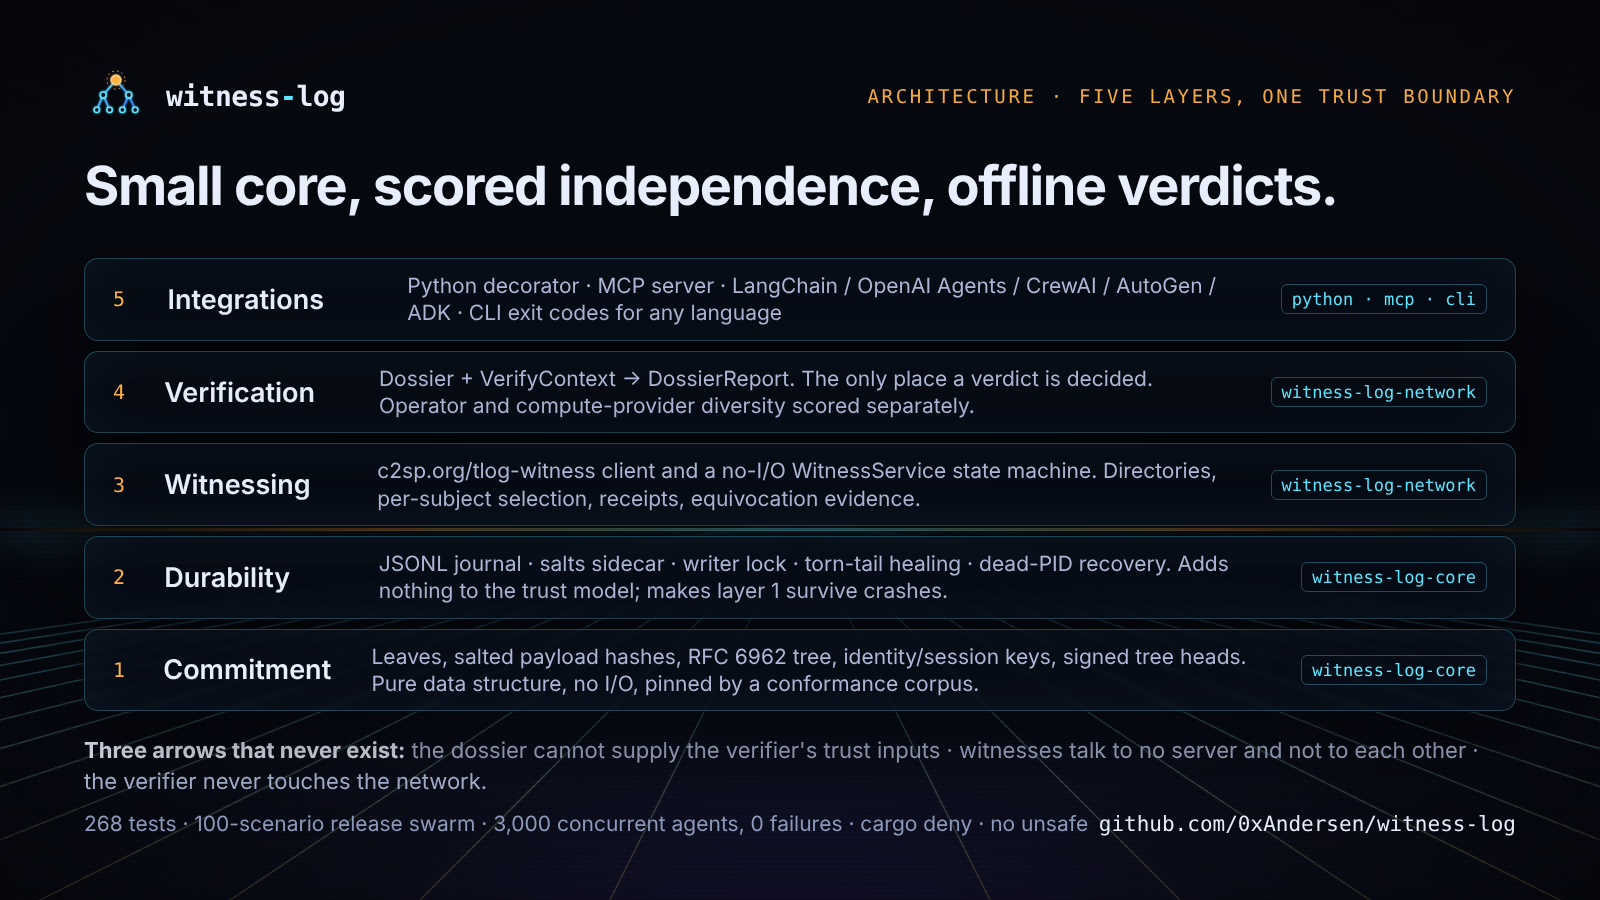
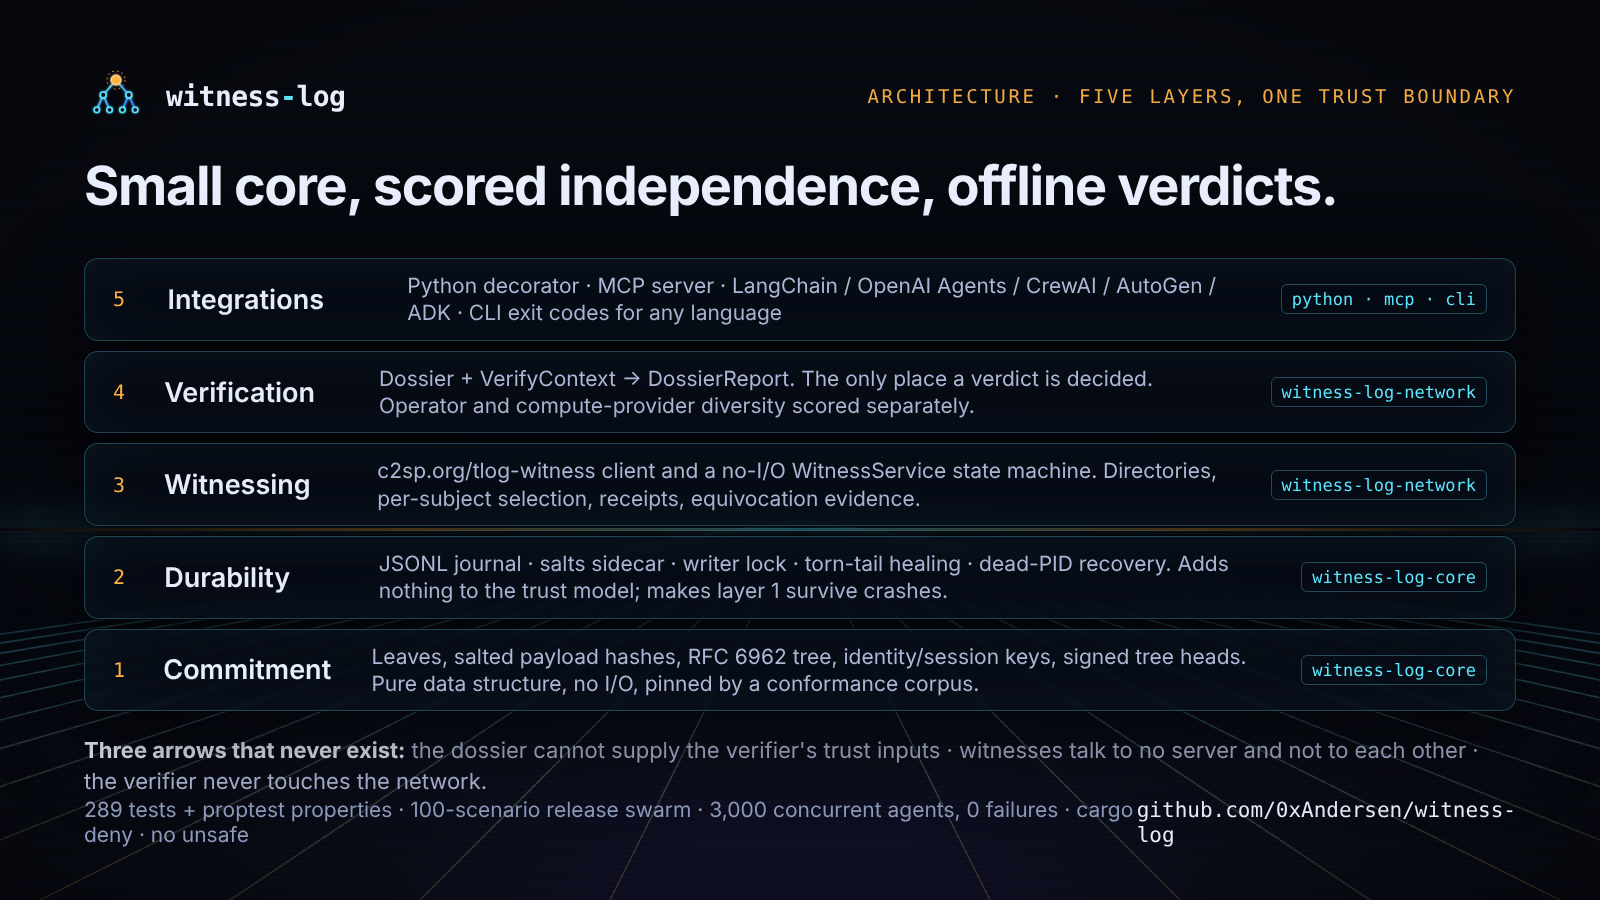
0.3.6: changelog, version bump, ARM notes, re-rendered graphics (Apache chip, current figures), demo resolves relative binary path

Changed region(s): [[0.0312, 0.8711, 0.9375, 0.9333]]

diff --git a/examples/rewrite-attack/run.py b/examples/rewrite-attack/run.py
@@ -38,6 +38,8 @@ except ImportError:  # pragma: no cover
     sys.exit("this demo needs the Python package: pip install witness-log")
 
 CLI = os.environ.get("WITNESS_LOG_BIN") or shutil.which("witness-log")
+if CLI and os.sep in CLI:
+    CLI = os.path.abspath(CLI)  # the demo runs commands from a temp dir
 if not CLI:
     sys.exit("this demo needs the CLI on PATH: cargo install witness-log-cli (or set WITNESS_LOG_BIN)")
 

diff --git a/crates/witness-log-python/python/witness_log/__init__.py b/crates/witness-log-python/python/witness_log/__init__.py
@@ -58,7 +58,7 @@ __all__ = [
     "submit_round",
 ]
 
-__version__ = "0.3.5"
+__version__ = "0.3.6"
 
 from .witnessing import Witnesser, WitnessStatus, submit_round  # noqa: E402
 

diff --git a/CHANGELOG.md b/CHANGELOG.md
@@ -1,6 +1,6 @@
 # Changelog
 
-## Unreleased
+## 0.3.6 — 2026-10-12
 
 Driven by a fresh-eyes evaluation of the published 0.3.5 packages
 (integrator, adversary and hostile-input personas working only from the
@@ -55,6 +55,52 @@ fails on 0.3.5. No wire-format or verdict change.
   list form `verify_dossier_json` accepts.
 - `conform` only worked from a checkout's root: `--reference <corpus>`.
 - `from witness_log import *` exported `open`, shadowing the builtin.
+
+### Fixed (routed from the operator-kit and launch-content work)
+
+- **A witness in a container never restarted after `docker kill`.** Its
+  lock file named pid 1, the restarted witness was pid 1 again, the
+  liveness check saw itself and refused forever. A lock naming the
+  process's own pid is now treated as stale (it cannot be held by a live
+  witness: this process has not taken it yet).
+- **`diff` hedged on a whole-history rewrite.** Two dossiers under one
+  identity diverging at leaf 0 printed "usually means these are two
+  SEPARATE logs" and never "EQUIVOCATION DETECTED". Under the canonical
+  origin the key names the log, so it is equivocation (witnesses refuse
+  it the same way); the output now says so and names the same-seed case.
+- `bind` printed authorization kinds in Rust Debug form (`Some(GrantedByMe)`);
+  it now prints `granted_by_me` etc.
+- **No Linux ARM binary was released**, so the Oracle Always Free path
+  (Ampere A1) had nothing to download. `aarch64-unknown-linux-gnu` is now
+  built, and Linux binaries are built on Ubuntu 22.04 for older glibc.
+- `registry/validate.py` rejects loopback URLs (`witness init` without
+  `--url` writes `http://127.0.0.1:7380`).
+- SPEC §0 said every leaf is signed by a session key; leaves are not
+  individually signed. SPEC §1 claimed a wire-compatibility aim with the
+  agent-record draft and an IETF working group's conclusion; both are
+  corrected.
+
+### Operators
+
+- Public witness status page, every 10 minutes, on the `status` branch
+  (`STATUS.md`, `status.json`); empty registry rendered honestly.
+- `ghcr.io/0xandersen/witness-log` multi-arch image that initialises
+  itself from `WITNESS_ORG` on first start (docker one-liner).
+- cloud-init survives offline steps (IP fallback, Caddy optional, ARM
+  compile fallback); a QEMU end-to-end workflow (manual).
+- Operator onboarding page with current, cited hosting facts; a Founding
+  operators list in GOVERNANCE.md; `witnessed-report` workflow that writes
+  the first independent-WITNESSED report only when two outside
+  organisations are registered and up.
+
+### Launch material
+
+- `examples/rewrite-attack/run.py`: the same-key history rewrite refused
+  by two witnesses with 422, evidence verified, `diff` flagging
+  equivocation, in under a second on localhost.
+- Per-project comparison pages (Tessera, Microsoft AGT, Signet, immudb,
+  Agent Receipts, SCITT) from primary sources; SCITT RFC 9943 mapping with
+  the agent-record divergence list; a runnable AP2 mandates tutorial.
 
 ### Added
 

diff --git a/deploy/witness/AGENT_OPERATOR.md b/deploy/witness/AGENT_OPERATOR.md
@@ -26,10 +26,10 @@ answers `ok`. Then register it from the repo: Actions → *register-witness*
 opens the PR in step 6 instead). Manual steps follow for anyone who wants
 to see what it does.
 
-If the release has no Linux binary for the CPU (v0.3.5 ships
-`x86_64-unknown-linux-gnu` only; Oracle's Always Free Ampere VMs are
-`aarch64`), the script compiles the same version from crates.io instead,
-which takes several minutes on first boot. The Docker image
+Releases from v0.3.6 ship Linux binaries for x86_64 and aarch64 (Oracle's
+Always Free Ampere VMs, Graviton, a 64-bit Pi). If a release ever lacks
+one for the CPU, the script compiles the same version from crates.io
+instead, which takes several minutes on first boot. The Docker image
 (`OPERATORS.md`, "Docker") covers arm64 without compiling.
 
 ## 0. Where to run it (free, always-on)
@@ -41,7 +41,7 @@ forgets what it cosigned will contradict itself. Known-good free options:
 
 | provider | tier | notes |
 |---|---|---|
-| Oracle Cloud | Always Free: 2 AMD micro VMs, or Ampere A1 up to 2 OCPUs / 12 GB; 200 GB block storage | the best free always-on choice; idle Always Free VMs may be reclaimed, so snapshot the state volume; ARM: `cargo install` or the Docker image (no aarch64 Linux binary in v0.3.5) |
+| Oracle Cloud | Always Free: 2 AMD micro VMs, or Ampere A1 up to 2 OCPUs / 12 GB; 200 GB block storage | the best free always-on choice; idle Always Free VMs may be reclaimed, so snapshot the state volume |
 | Google Cloud | e2-micro, 1 per account, always free (US regions) | 30 GB disk persists |
 | AWS | new accounts: credits on a Free plan that ends after 6 months | temporary; set a reminder |
 | your own hardware | a Raspberry Pi, a NAS, a desk machine | needs a port forward or a tunnel (Cloudflare Tunnel is free) |
@@ -54,9 +54,8 @@ jobs), serverless/edge functions (no durable fsync before reply).
 
 ```sh
 # pick the asset for your CPU from https://github.com/0xAndersen/witness-log/releases/latest
-# (no aarch64 Linux asset in v0.3.5: on ARM use `cargo install` below or the Docker image)
 ARCH=$(uname -m)            # x86_64 or aarch64
-VER=v0.3.5
+VER=v0.3.6
 curl -fsSLO https://github.com/0xAndersen/witness-log/releases/download/$VER/witness-log-$VER-$ARCH-unknown-linux-gnu.tar.gz
 curl -fsSLO https://github.com/0xAndersen/witness-log/releases/download/$VER/SHA256SUMS
 sha256sum --ignore-missing -c SHA256SUMS

diff --git a/RELEASING.md b/RELEASING.md
@@ -27,7 +27,7 @@ on the exact commit being released.
    cargo-deny).
 3. Publish the crates **in dependency order**, waiting for each to appear
    on crates.io before the next (each depends on the previous one):
-   Preferred: Actions → *publish-crates* → Run workflow → tag `v0.3.5`.
+   Preferred: Actions → *publish-crates* → Run workflow → tag `v0.3.6`.
    The token lives in the `crates-io` environment as
    `CARGO_REGISTRY_TOKEN`; the job publishes core → network → cli in
    order, skips versions already on crates.io, and verifies with
@@ -38,14 +38,14 @@ on the exact commit being released.
    cargo publish -p witness-log-cli
    ```
 4. Release. Either push a tag, or run the `release` workflow manually
-   (Actions → release → Run workflow → tag `v0.3.5`); the workflow then
+   (Actions → release → Run workflow → tag `v0.3.6`); the workflow then
    creates the tag on the chosen commit. It refuses to run if the tag
    does not equal the version in `Cargo.toml`. This builds wheels
    for Linux (x86_64, aarch64, musl), macOS (Intel, Apple Silicon) and
    Windows plus an sdist, publishes them to PyPI, and creates a GitHub
    Release with CLI binaries and `SHA256SUMS`:
    ```sh
-   git tag -a v0.3.5 -m "witness-log 0.3.5" && git push origin v0.3.5
+   git tag -a v0.3.6 -m "witness-log 0.3.6" && git push origin v0.3.6
    ```
 5. Check from a clean machine: `cargo install witness-log-cli && witness-log
    demo`, and `pip install witness-log && python -c "import witness_log"`.

diff --git a/README.md b/README.md
@@ -323,7 +323,7 @@ from it. The registry starts empty: the first independent operator is the one th
 
 ## Evidence
 
-Every push runs 290 Rust tests plus proptest properties for inclusion and consistency, the Python and MCP suites,
+Every push runs 289 Rust tests plus proptest properties for inclusion and consistency, the Python and MCP suites,
 the TypeScript client tests, an overhead budget, clippy and rustdoc with `-D warnings`,
 `cargo deny`, the conformance corpus, ten live witnesses through ten scenarios, 100 scenarios against the
 *released* CLI and wheel, and a 200-agent swarm, on Linux, macOS and Windows.
@@ -378,7 +378,7 @@ witness-log/
 
 ## Status
 
-Pre-1.0 (v0.3.5). Core, network, CLI, Python bindings and the MCP server are implemented, tested and
+Pre-1.0 (v0.3.6). Core, network, CLI, Python bindings and the MCP server are implemented, tested and
 released; the wire format is specified and corpus-pinned. Independent witness operators are being
 recruited: see `GOVERNANCE.md` and `deploy/witness/AGENT_OPERATOR.md`.
 

diff --git a/docs/wiki/Quickstart-Rust.md b/docs/wiki/Quickstart-Rust.md
@@ -10,9 +10,9 @@ MSRV 1.75. No `unsafe`. Dependencies are audited with `cargo deny` in CI.
 
 ```toml
 [dependencies]
-witness-log-core    = "0.3.5" # log, Merkle tree, identity, redaction, journal, C2SP encoding
-witness-log-network = "0.3.5" # witnesses, directories, quorum, dossiers, verification
-# from crates.io; or { git = "https://github.com/0xAndersen/witness-log", tag = "v0.3.5" }
+witness-log-core    = "0.3.6" # log, Merkle tree, identity, redaction, journal, C2SP encoding
+witness-log-network = "0.3.6" # witnesses, directories, quorum, dossiers, verification
+# from crates.io; or { git = "https://github.com/0xAndersen/witness-log", tag = "v0.3.6" }
 ```
 
 **Why two crates.** `core` is everything a single process needs to keep a

diff --git a/docs/wiki/Operator-Onboarding.md b/docs/wiki/Operator-Onboarding.md
@@ -61,9 +61,10 @@ curl -s http://<public-ip>/ | jq .directory_entry
 It installs the checksum-verified release binary, a dedicated user, one
 witness under a hardened systemd unit, Caddy (http at once, TLS on
 `<public-ip>.sslip.io` with no DNS needed) and the host firewall rules.
-On an ARM VM with v0.3.5 it compiles the binary from crates.io first,
-because that release has no aarch64 Linux binary; that adds several
-minutes.
+Releases from v0.3.6 include an aarch64 Linux binary, so ARM VMs
+(Oracle Ampere A1) download it like x86_64; only a release without a
+binary for the CPU would fall back to compiling from crates.io, which adds
+several minutes.
 
 ### 2. Docker, one line
 
